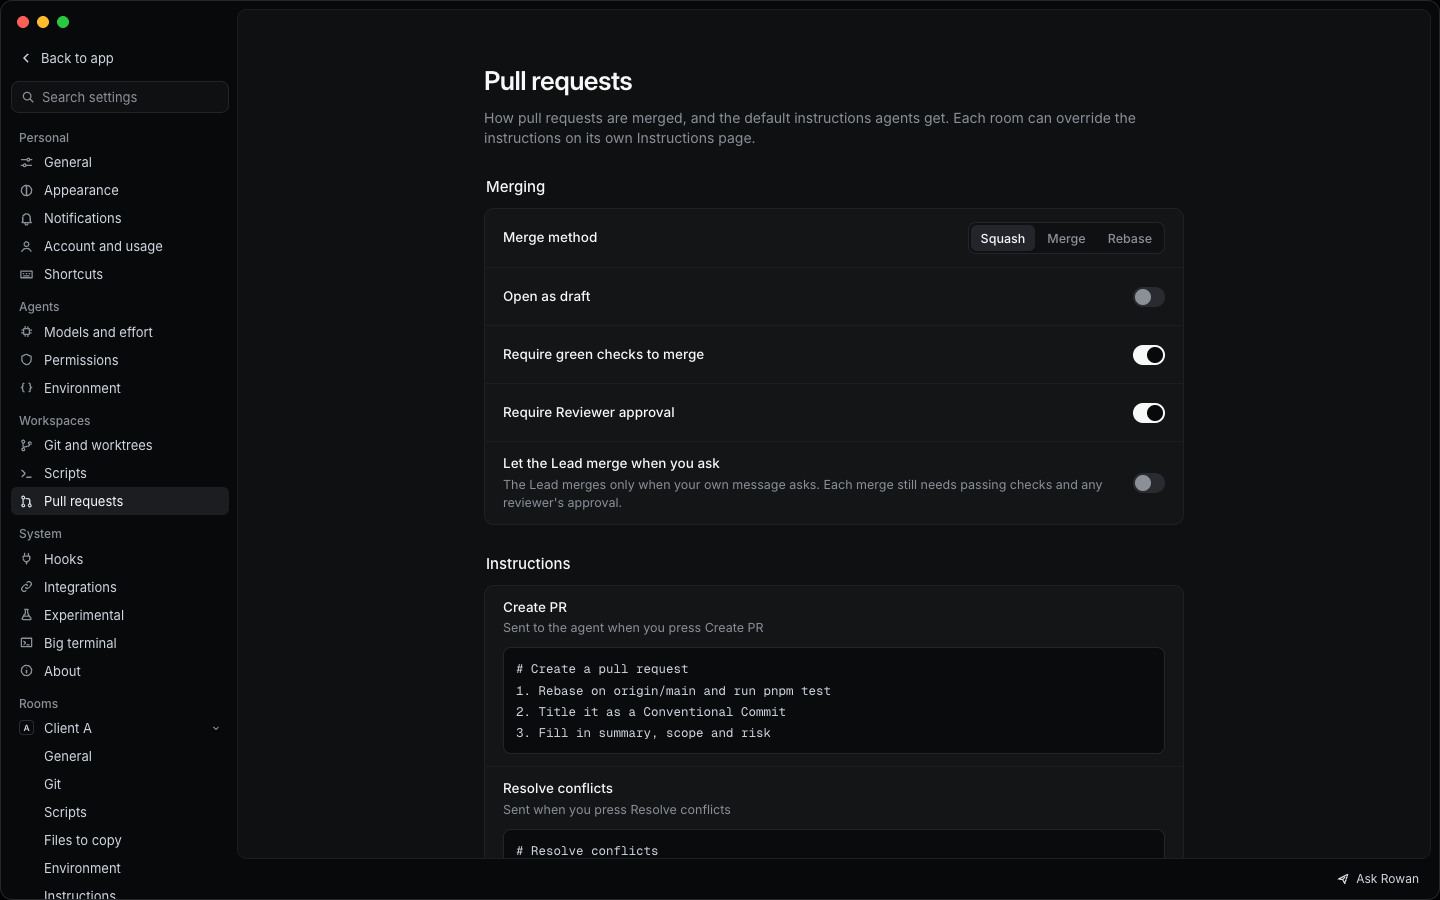
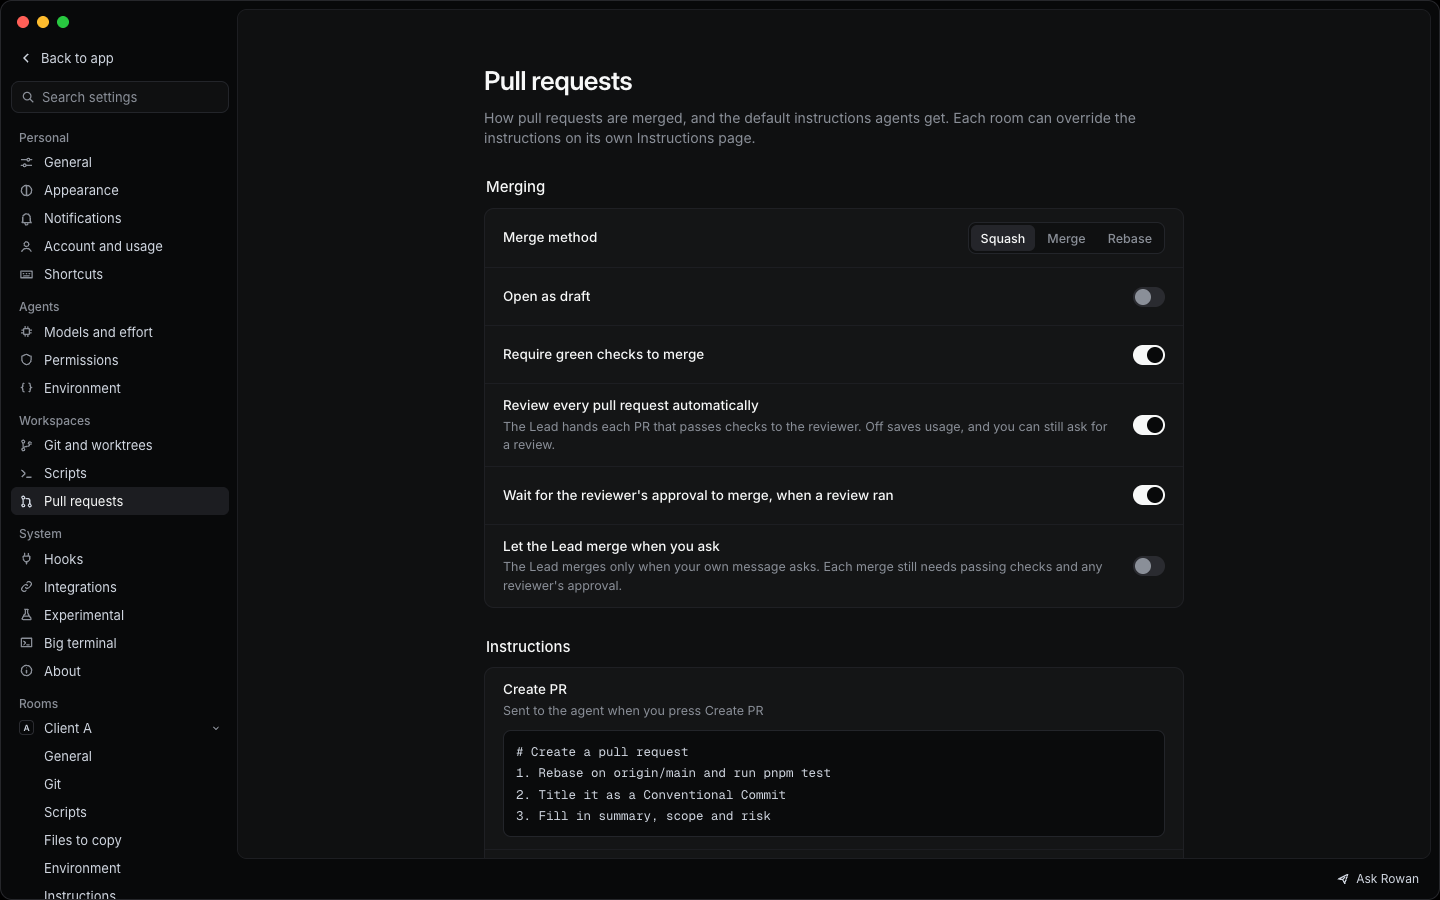
docs(design): automatic review switch on Settings, Pull requests (KERNEL-378)
Adds a Review every pull request automatically row above the reworded
reviewer approval row in Merging. Re-renders SettingsPRs.png.

diff --git a/design/canvas/project/SettingsPRs.dc.html b/design/canvas/project/SettingsPRs.dc.html
@@ -297,7 +297,7 @@ class Component extends DCLogic {
         { title: 'Automation', rows: [tog('autosetup', 'Run setup when a workspace is created', true, 'New workspaces are ready before the first message'), tog('autorun', 'Start the run script after setup', false, 'Each workspace gets its own port'), tog('autoarchive', 'Run archive script on archive', true)] }
       ] },
       prs: { title: 'Pull requests', intro: 'How pull requests are merged, and the default instructions agents get. Each room can override the instructions on its own Instructions page.', sections: [
-        { title: 'Merging', rows: [seg('merge', 'Merge method', ['Squash', 'Merge', 'Rebase']), tog('draft', 'Open as draft', false), tog('green', 'Require green checks to merge', true), tog('revok', 'Require Reviewer approval', true), tog('leadmerge', 'Let the Lead merge when you ask', false, 'The Lead merges only when your own message asks. Each merge still needs passing checks and any reviewer\'s approval.')] },
+        { title: 'Merging', rows: [seg('merge', 'Merge method', ['Squash', 'Merge', 'Rebase']), tog('draft', 'Open as draft', false), tog('green', 'Require green checks to merge', true), tog('autoreview', 'Review every pull request automatically', true, 'The Lead hands each PR that passes checks to the reviewer. Off saves usage, and you can still ask for a review.'), tog('revok', 'Wait for the reviewer\'s approval to merge, when a review ran', true), tog('leadmerge', 'Let the Lead merge when you ask', false, 'The Lead merges only when your own message asks. Each merge still needs passing checks and any reviewer\'s approval.')] },
         { title: 'Instructions', rows: [code('Create PR', ['# Create a pull request', '1. Rebase on origin/main and run pnpm test', '2. Title it as a Conventional Commit', '3. Fill in summary, scope and risk'], 'Sent to the agent when you press Create PR'), code('Resolve conflicts', ['# Resolve conflicts', '1. Rebase on origin/main', '2. Re-run pnpm test and pnpm typecheck'], 'Sent when you press Resolve conflicts'), code('Fix checks', ['# Fix failing checks', '1. Read the failing job log', '2. Fix the cause, not the test', '3. Push and wait for the checks'], 'Sent when you press Fix checks'), code('Address review', ['# Address review comments', '1. Read every open thread', '2. Change the code or reply with a reason', '3. Push and resolve the threads'], 'Sent when you press Address review')] }
       ] },
       hooks: { title: 'Hooks', sections: [

diff --git a/design/redesign/README.md b/design/redesign/README.md
@@ -61,7 +61,7 @@ The PR screens cover No changes yet, No PR yet, Creating PR, Draft, Open, Checks
 
 - **Team update.** The newest row about a ready PR shows `Merge #N` before Open, in the ready band's soft tone (`--pr-ready-soft`, edge and fg). Older rows about the same PR keep Open only. While it merges the button reads Merging, dims and spins, and the row's events say "Merging PR #N". A merged row's event is violet, and its Open becomes In History once the workspace is archived. A PR that can't merge yet shows the reason in muted text in the button's place, such as "Waiting for Theo's approval". On a reviewer's row the button merges the PR under review.
 - **Lead panel.** The header is the ready band with "N ready to merge" and a chevron, and clicking it opens the PRs tab. With nothing open it is the grey band reading "No open PRs", with no chevron. The PRs tab sits first, with the ready count. Ready to merge rows carry Merge and Open. The list scrolls above the Run panel, which keeps its normal height, so `LeadPrs` cuts the last Still open row off. Still open rows are muted, with the state word (Waiting for approval, Checks running, Checks failed, Changes requested, Merge conflicts or Draft) in the band's label tone and Open. A row is the agent, issue key, #N, title, the review line ("Theo approved" green, "Theo found 2 blockers" red, "Not reviewed" faint) and the lines added and removed.
-- **Settings.** `SettingsPRs` is drawn in `design/canvas/`. Merging comes before Instructions on Settings, Pull requests, so its switches show without scrolling, and it gains "Let the Lead merge when you ask", off.
+- **Settings.** `SettingsPRs` is drawn in `design/canvas/`. Merging comes before Instructions on Settings, Pull requests, so its switches show without scrolling, and it gains "Let the Lead merge when you ask", off, and "Review every pull request automatically", on. "Require Reviewer approval" now reads "Wait for the reviewer's approval to merge, when a review ran".
 
 ## Not built
 
